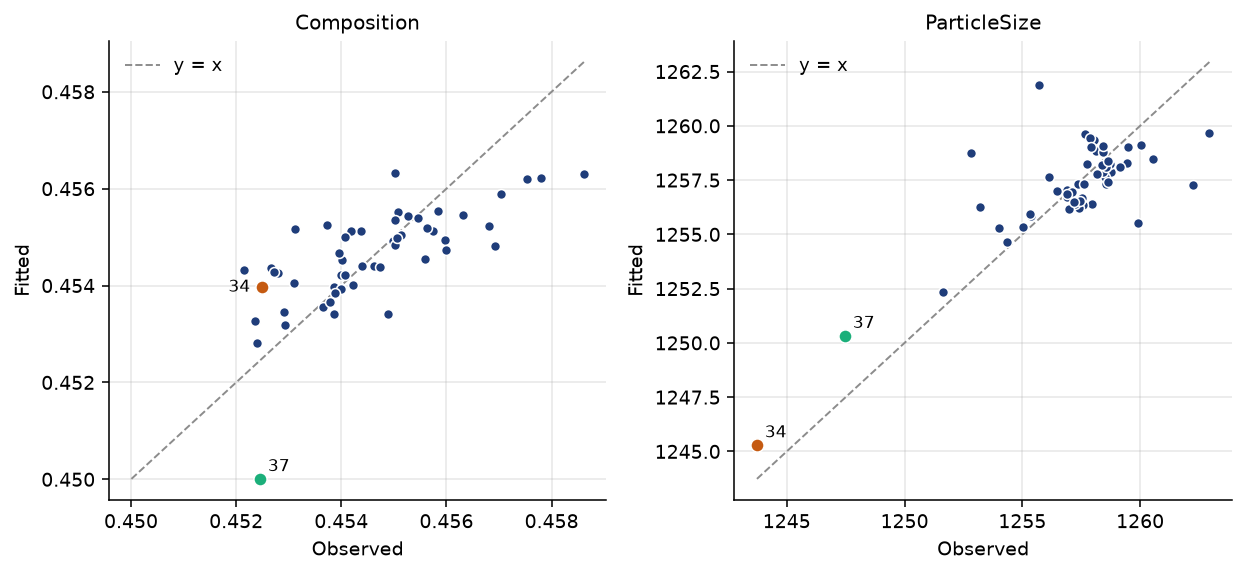
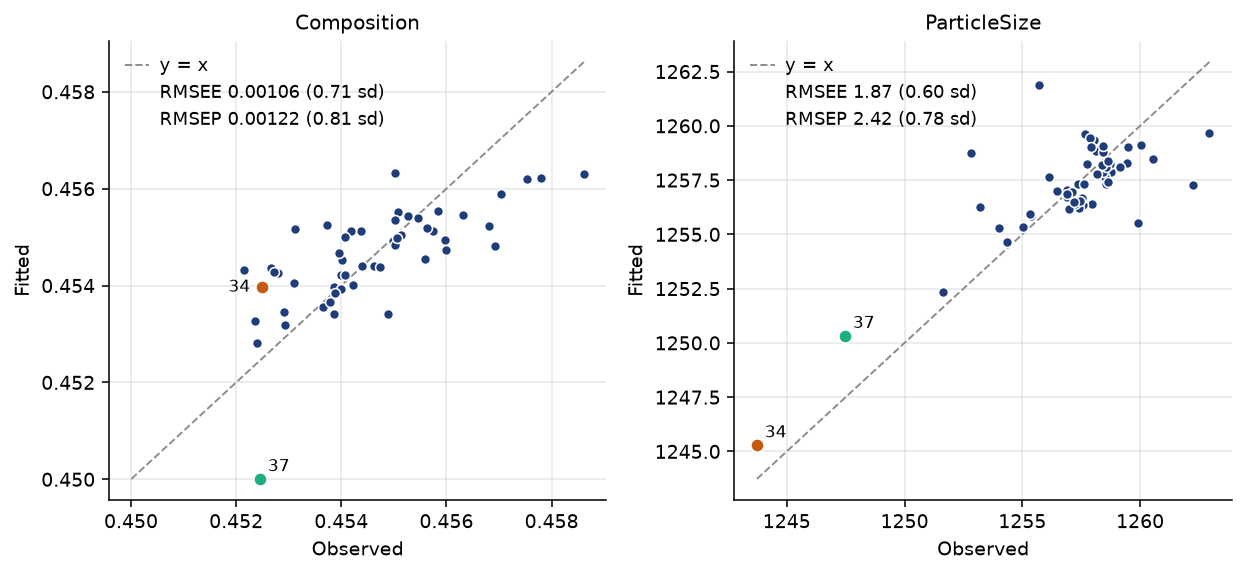
SBR parity plot: list the two errors, and make the legend readable over the grid
The scatter about the y = x line is what a reader judges on a parity plot, so
the number for it belongs on the same axes. Each panel's legend now lists
RMSEE, the scatter of the fitted values, and RMSEP, the same scatter when
every batch is left out of the fit in turn, each in the attribute's units and
in standard deviations of it.

The legend sits over the grid and close to the cloud, so it is drawn on white
at 85% opacity with no frame: readable, without reading as a panel of its own.

One leave-one-batch-out sweep now serves both figures that need it, its
end-of-batch row here and the whole frame in the prediction-error curve later,
rather than the script paying for it twice. The classical centre and spread in
the departure figure are renamed, since they shadowed the quality standard
deviations once that sweep moved above them.

Claude-Session: https://claude.ai/code/session_01LXthGpHLQFfGubBiKFtGAE

diff --git a/batch/batch-case-sbr-figures.py b/batch/batch-case-sbr-figures.py
@@ -160,11 +160,19 @@ def main(out_dir: pathlib.Path, data_url: str | None) -> None:
     save(contribution_triptych(t1.loc[FAULT_FROM_START], what="Contribution to $t_1$", title="Batch 37: contributions to $t_1$"), out_dir, "batch-case-sbr-batch-37-contributions")
     save(contribution_triptych(t2.loc[FAULT_PARTWAY], what="Contribution to $t_2$", title="Batch 34: contributions to $t_2$"), out_dir, "batch-case-sbr-batch-34-contributions")
 
+    # One leave-one-batch-out sweep serves two figures: the end-of-batch row is the RMSEP quoted on the
+    # parity plot below, and the whole frame is the prediction-error curve further on.
+    sd = quality.std(ddof=1)
+    rmsep = leave_one_batch_out_rmse(trajectories, quality, list(range(1, model.n_timesteps_ + 1)))
+    rmsee = np.sqrt(((quality - model.predictions_) ** 2).mean())
+
     fig, axes = plt.subplots(1, 2, figsize=(9.0, 4.2))
     for ax, variable in zip(axes, ["Composition", "ParticleSize"], strict=True):
         # batch 34 sits against the cloud of composition values, so its label goes to the left there
         parity_plot(quality[variable], model.predictions_[variable], highlight=HIGHLIGHT, ax=ax, title=variable,
-                    label_offsets={FAULT_PARTWAY: (-6, 0)} if variable == "Composition" else None)  # just west of the marker
+                    label_offsets={FAULT_PARTWAY: (-6, 0)} if variable == "Composition" else None,  # just west of it
+                    errors={"RMSEE": rmsee[variable], "RMSEP": rmsep.loc[model.n_timesteps_, variable]},
+                    sd=sd[variable])
     fig.tight_layout()
     save(fig, out_dir, "batch-case-sbr-observed-vs-fitted")
 
@@ -177,11 +185,11 @@ def main(out_dir: pathlib.Path, data_url: str | None) -> None:
     # sample does not widen the band), smoothed with an EWMA (lambda = 0.3, the value the book's
     # EWMA chapter uses; pandas starts the average at the first sample's value).
     others = np.stack([batch.to_numpy() for key, batch in trajectories.items() if key not in HIGHLIGHT])
-    mean, sd = others.mean(axis=0), others.std(axis=0, ddof=1)
+    mean_centre, mean_spread = others.mean(axis=0), others.std(axis=0, ddof=1)
     centre, spread = np.median(others, axis=0), median_absolute_deviation(others, axis=0, scale="normal")
     fig, axes = plt.subplots(2, len(sbr.trajectory_tags), figsize=(13.0, 4.4), sharex=True, sharey=True)
     for row, batch_id in enumerate([FAULT_FROM_START, FAULT_PARTWAY]):
-        z = (trajectories[batch_id].to_numpy() - mean) / sd
+        z = (trajectories[batch_id].to_numpy() - mean_centre) / mean_spread
         z_robust = pd.DataFrame((trajectories[batch_id].to_numpy() - centre) / spread).ewm(alpha=EWMA_LAMBDA, adjust=False).mean().to_numpy()
         for j, tag in enumerate(sbr.trajectory_tags):
             ax = axes[row, j]
@@ -212,10 +220,9 @@ def main(out_dir: pathlib.Path, data_url: str | None) -> None:
     save(fig, out_dir, "batch-case-sbr-departure")
 
     # -- On-line prediction: how the error of the evolving quality prediction falls as the batch is observed.
-    # Leave-one-batch-out RMSEP: each batch held out of the fit in turn and traced as it runs, relative to the
-    # attribute's standard deviation over the 53 batches: a ratio of 1 is the error of predicting the average.
-    sd = quality.std(ddof=1)
-    rmsep = leave_one_batch_out_rmse(trajectories, quality, list(range(1, model.n_timesteps_ + 1)))
+    # The leave-one-batch-out sweep computed above, now read as a curve: each batch held out of the fit in
+    # turn and traced as it runs, relative to the attribute's standard deviation over the 53 batches, so
+    # that a ratio of 1 is the error of predicting the average batch.
     for attribute in ("ParticleSize", "Composition"):
         print(
             f"{attribute}: leave-one-batch-out RMSEP / sd after "

diff --git a/batch/batch_case_common.py b/batch/batch_case_common.py
@@ -489,13 +489,18 @@ def parity_plot(
     title: str,
     label_left: tuple[int, ...] = (),
     label_offsets: dict[int, tuple[float, float]] | None = None,
+    errors: dict[str, float] | None = None,
+    sd: float | None = None,
 ) -> None:
     """Observed against fitted values with the y = x line; selected batches coloured and labelled.
 
     ``label_offsets`` gives a batch its own label offset in points, with the alignment following the
     signs, for a marker whose neighbours crowd both default positions.
     ``label_left`` names the highlighted batches whose label goes to the left of the marker,
-    for a point whose right-hand side is crowded by other batches.
+    for a point whose right-hand side is crowded by other batches. ``errors`` (name -> value, for
+    instance ``{"RMSEE": 1.87, "RMSEP": 2.42}``) is listed in the legend, in the units of the axes,
+    with each value also given in units of ``sd`` when that is passed: the scatter about the
+    ``y = x`` line is what the reader is judging, so the number belongs on the same plot.
     """
     others = [b for b in observed.index if b not in highlight]
     ax.scatter(observed.loc[others], predicted.loc[others], s=26, color=DARK_BLUE, edgecolor="white", linewidth=0.8, zorder=3)
@@ -515,7 +520,14 @@ def parity_plot(
     ax.set_xlabel("Observed")
     ax.set_ylabel("Fitted")
     ax.set_title(title)
-    ax.legend(loc="upper left")
+    handles, texts = ax.get_legend_handles_labels()
+    for name, value in (errors or {}).items():
+        handles.append(Line2D([], [], ls="none", marker="none"))          # a value, with no mark of its own
+        texts.append(f"{name} {value:.3g}" + (f" ({value / sd:.2f} sd)" if sd else ""))
+    # The legend sits over the grid and, in a parity plot, close to the cloud: give it a background
+    # solid enough to read through and no frame, so it does not read as a panel of its own.
+    ax.legend(handles, texts, loc="upper left", facecolor="white", framealpha=0.85, edgecolor="none",
+              handlelength=1.4, handletextpad=0.6)
 
 
 def online_chart(
